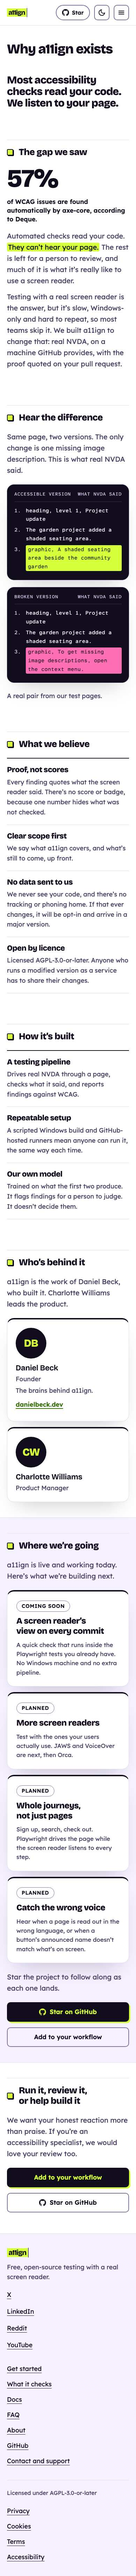
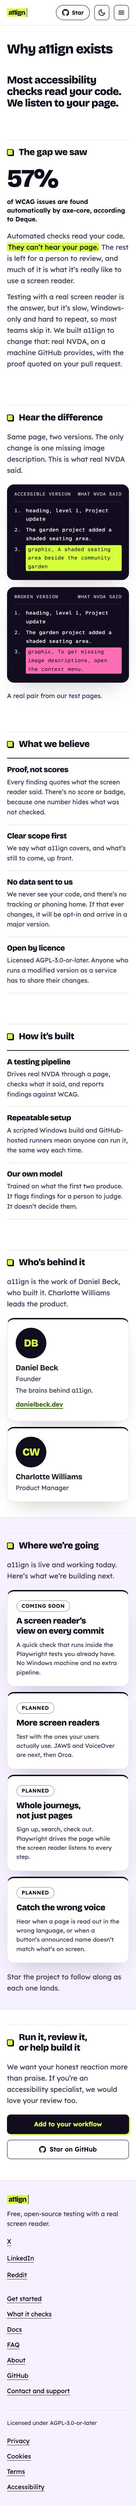
fix(a11ign.github.io): answer the review: Home steps without number circles, footer without YouTube and a tighter X gap, LinkedIn link, About roadmap without its duplicate buttons, FAQ privacy question

Changed region(s): [[0.0308, 0.0, 0.9538, 0.9989], [0.3692, 0.9365, 0.4615, 0.9677]]

diff --git a/tests/design.spec.ts b/tests/design.spec.ts
@@ -171,6 +171,65 @@ test.describe('Home', () => {
 	}
 });
 
+test.describe('Home steps', () => {
+	test('the steps carry no number circles, because the section chips already number the page', async ({ page }) => {
+		await page.goto('/');
+		await expect(page.locator('main .sh .num')).toHaveText(['01', '02', '03', '04', '05']);
+		await expect(page.locator('.a1-step-n')).toHaveCount(0);
+		await expect(page.locator('ul.steps > li')).toHaveText([
+			'Add a few lines to your GitHub project.',
+			'GitHub runs a11ign on a Windows machine, with a real screen reader.',
+			'Read the report on your pull request.',
+		]);
+		await expect(page.locator('.ag .a1-step')).toHaveText(['Install the skill', 'Ask in plain words']);
+	});
+
+	test('Get started keeps the numbered install steps', async ({ page }) => {
+		await page.goto('/get-started');
+		await expect(page.locator('.a1-step-n').first()).toBeVisible();
+	});
+});
+
+test.describe('Footer and follow links', () => {
+	test('the footer lists X, LinkedIn and Reddit, LinkedIn goes to the company page, and there is no YouTube', async ({ page }) => {
+		await page.goto('/');
+		const links = page.getByRole('contentinfo').getByRole('list', { name: 'Follow us' }).getByRole('link');
+		await expect(links).toHaveText(['X', 'LinkedIn', 'Reddit']);
+		await expect(links.nth(1)).toHaveAttribute('href', 'https://www.linkedin.com/company/a11ign');
+		await expect(page.getByRole('contentinfo').getByText('YouTube')).toHaveCount(0);
+	});
+
+	test('the gap between the X and LinkedIn text is no wider than the LinkedIn and Reddit one, plus a few pixels', async ({ page }) => {
+		await page.setViewportSize({ width: 1440, height: 900 });
+		await page.goto('/');
+		const gaps = await page.$$eval('.sf .soc .fl', (links) => {
+			const rects = links.map((link) => {
+				const range = document.createRange();
+				range.selectNodeContents(link);
+				return range.getBoundingClientRect();
+			});
+			return rects.slice(1).map((rect, i) => rect.left - rects[i].right);
+		});
+		expect(gaps[0]).toBeLessThan(30);
+		expect(gaps[0] - gaps[1]).toBeLessThan(8);
+	});
+
+	test('Contact follows the footer: no YouTube, and the LinkedIn link is the company page without a placeholder', async ({ page }) => {
+		await page.goto('/contact');
+		await expect(page.getByText('YouTube')).toHaveCount(0);
+		const linkedin = page.locator('p', { hasText: 'Follow us:' }).getByRole('link', { name: 'LinkedIn', exact: true });
+		await expect(linkedin).toHaveAttribute('href', 'https://www.linkedin.com/company/a11ign');
+	});
+});
+
+test.describe('About', () => {
+	test('the roadmap section has no buttons: the two below it are the only pair', async ({ page }) => {
+		await page.goto('/about');
+		await expect(page.locator('section[aria-labelledby="next"] a.a1-btn')).toHaveCount(0);
+		await expect(page.locator('main a.a1-btn')).toHaveText(['Add to your workflow', 'Star on GitHub']);
+	});
+});
+
 test.describe('Get started', () => {
 	test('the 40-character commit note sits directly under the workflow code block, above steps 1 to 3', async ({ page }) => {
 		await page.goto('/get-started');
@@ -194,6 +253,14 @@ test.describe('Get started', () => {
 });
 
 test.describe('FAQ', () => {
+	test('"Do we process your data?" answers no, and says what it talks to', async ({ page }) => {
+		await page.goto('/faq');
+		const item = page.locator('details', { hasText: 'Do we process your data?' });
+		await expect(item.locator('summary')).toHaveText('Do we process your data?');
+		await expect(item.locator('.ans')).toHaveText('No. It only talks to the page you point it at and your own machine. No tracking, no phoning home.');
+		await expect(page.getByText('What does it send anywhere?')).toHaveCount(0);
+	});
+
 	test('the run-cost answer says the Windows minutes cost more in a private repository', async ({ page }) => {
 		await page.goto('/faq');
 		const answer = page.locator('details', { hasText: 'How long does a run take, and what does it cost?' }).locator('.ans');

diff --git a/tests/behaviour.spec.ts b/tests/behaviour.spec.ts
@@ -322,14 +322,14 @@ test.describe('content the design marks as unfinished ships as designed', () => 
 
 	test('placeholders stay visible', async ({ page }) => {
 		await page.goto('/contact');
-		for (const text of ['X [handle]', 'LinkedIn [page]', 'Reddit [community]', 'YouTube [channel]']) {
+		for (const text of ['X [handle]', 'Reddit [community]']) {
 			await expect(page.getByRole('link', { name: text })).toHaveAttribute('href', '#');
 		}
 		await page.goto('/resources');
 		await expect(page.getByText('[Placeholder: two sentences on what this guide covers and who it’s for.]')).toBeVisible();
 		await expect(page.getByText('[Author] · [Date] · [Read time]')).toBeVisible();
 		await page.goto('/');
-		await expect(page.getByRole('contentinfo').getByRole('link', { name: 'LinkedIn' })).toHaveAttribute('href', '#');
+		await expect(page.getByRole('contentinfo').getByRole('link', { name: 'Reddit' })).toHaveAttribute('href', '#');
 	});
 
 	test('the 404 page follows the design', async ({ page }) => {

diff --git a/src/styles/components.css b/src/styles/components.css
@@ -79,6 +79,7 @@
 .a1-step-n{flex:none;display:flex;align-items:center;justify-content:center;width:48px;height:48px;border-radius:50%;background:var(--pen);color:var(--ink);font:600 20px/1 var(--font-mono)}
 [data-theme="light"] .a1-step-n{background:var(--ink);color:var(--pen)}
 .a1-step-t{padding-top:9px}
+.a1-step-bare .a1-step-t{padding-top:0}
 
 /* Nav */
 .a1-nav{box-sizing:border-box;display:flex;align-items:center;gap:20px;min-height:72px;padding:12px 32px;border-bottom:1px solid var(--divider);background:var(--ground);color:var(--text);font:500 18px/1.2 var(--font-sans)}

diff --git a/src/lib/site.ts b/src/lib/site.ts
@@ -2,6 +2,7 @@ import seoReadme from '../data/seo/README.md?raw';
 
 export const SITE_URL = 'https://www.a11ign.com';
 export const GITHUB_URL = 'https://github.com/a11ign/a11ign';
+export const LINKEDIN_URL = 'https://www.linkedin.com/company/a11ign';
 export const SHARE_IMAGE = `${SITE_URL}/a11ign-share-card.png`;
 export const SHARE_IMAGE_ALT = 'a11ign: test accessibility the way a screen reader user hears it';
 /** The date the docs pages were written, fixed in code rather than taken from the build. */
